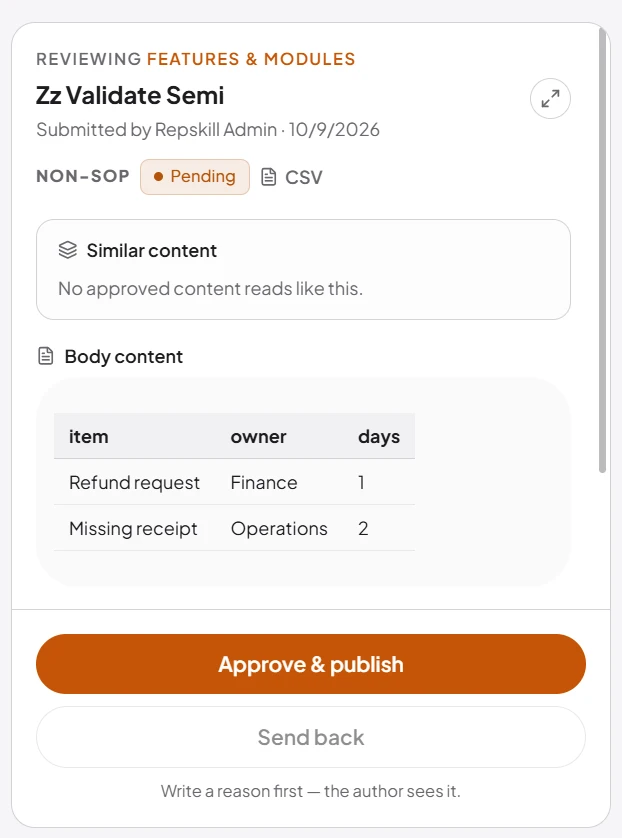
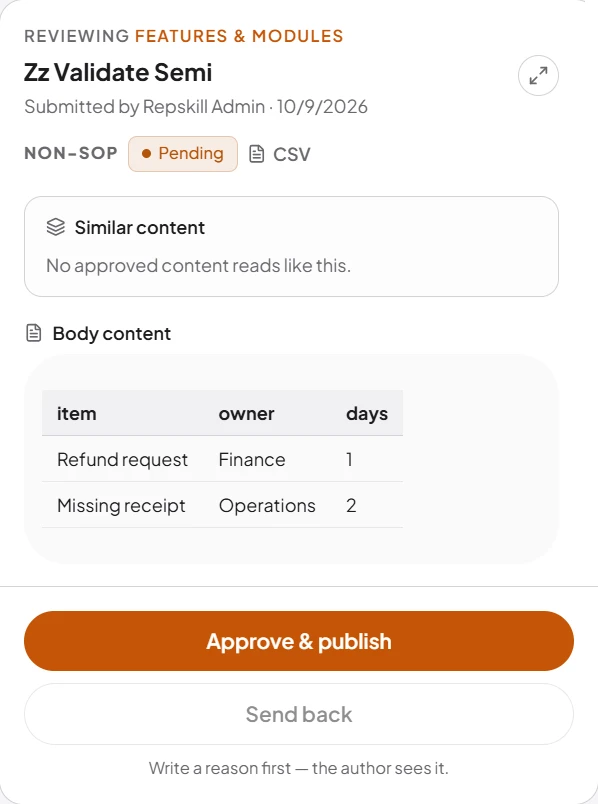
Crop the Content Manager screenshot to the card, without the app's grey background

diff --git a/docs/design-system/08-imagery.md b/docs/design-system/08-imagery.md
@@ -76,6 +76,9 @@ Foto orang di situasi kerja (tim sales, coaching), pencahayaan natural, tanpa fi
   pratinjau kartu Platform Overview), lebar 800px WebP (±20–30 KB). Jangan sertakan data uji (mis. judul "Zz Validate…")
   di area potongan, juga sorotan teks (blok seleksi biru): potong di bawahnya atau ambil ulang screenshot. Nama file
   `<fitur>-<layar>.webp`, mis. `capture-extraction-studio`, `learn-ai-chat`, `practice-reflection-studio`.
+- **Screenshot satu kartu/panel aplikasi** (mis. panel review Content Manager): potong tepat di dalam border kartunya,
+  tanpa latar abu aplikasi dan tanpa border kartu itu sendiri, supaya bingkai `screenshot` situs jadi satu-satunya border.
+  Tutup scrollbar aplikasi dengan warna latar kartu.
 - **Layar penuh:** semua mockup `screenshot` dan `video` otomatis bisa dibuka layar penuh (`ExpandableMedia`). Di dalam
   lightbox, video diputar dengan kontrol. Karena aset 1400px, tampil tajam di layar biasa; untuk layar retina lebar,
   siapkan versi lebih besar bila perlu.
